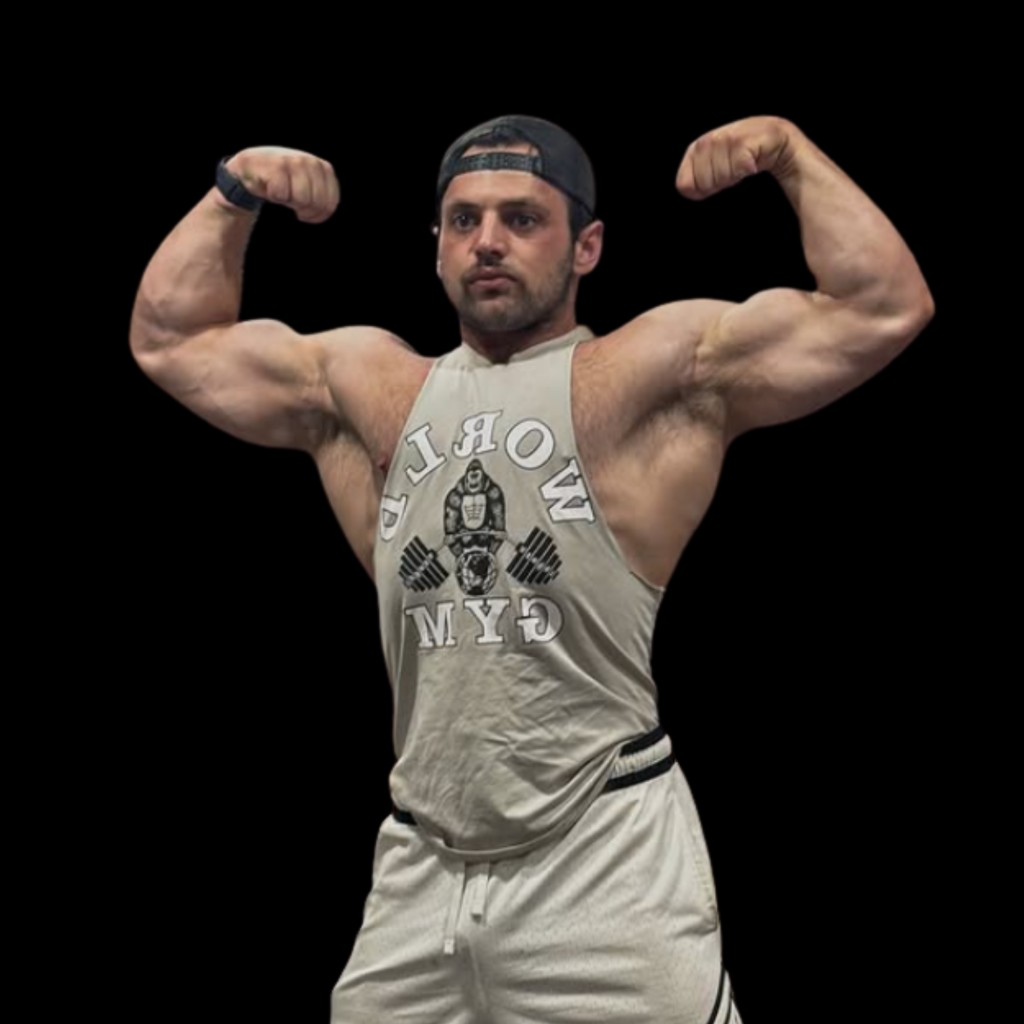
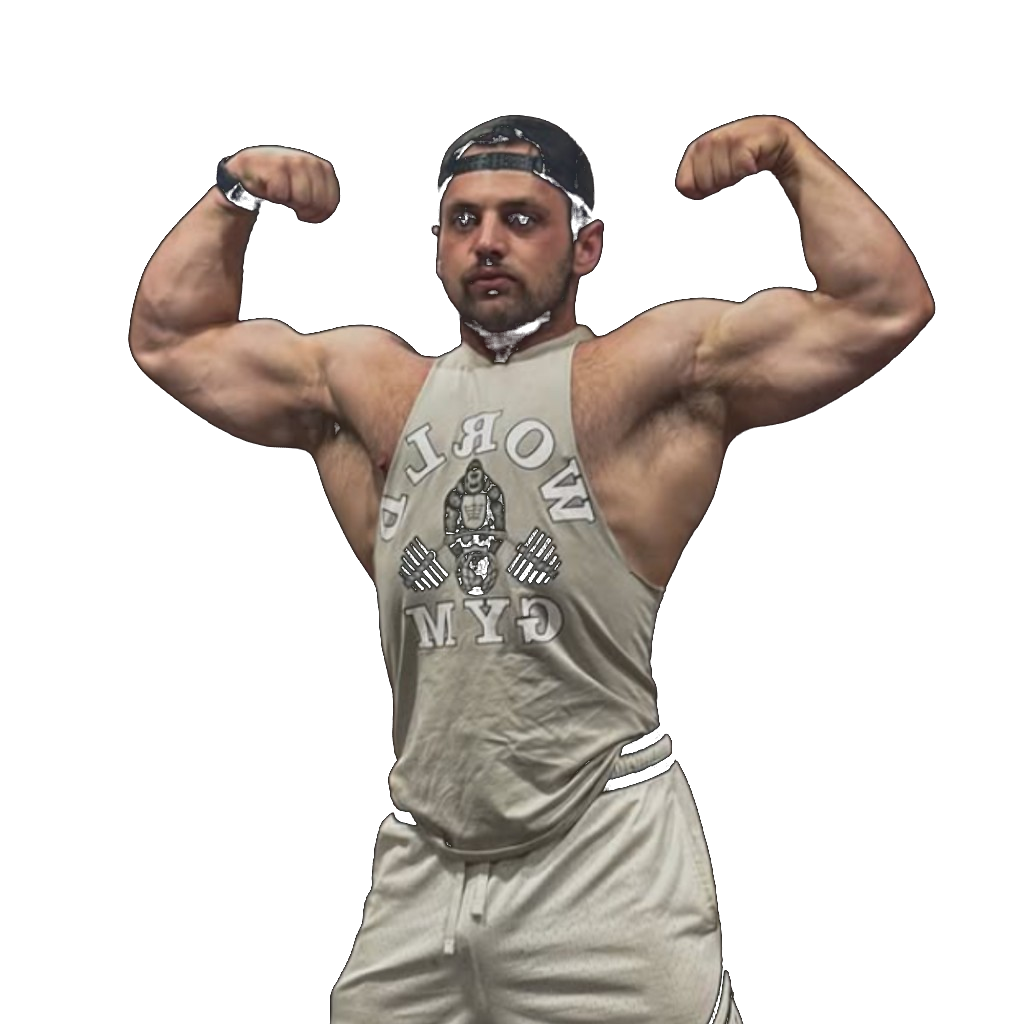
Transparent coaches, split carousels, smaller dumbbell, duo background.

diff --git a/components/sections/SelectedPhotoRail.tsx b/components/sections/SelectedPhotoRail.tsx
@@ -1,0 +1,30 @@
+"use client";
+
+import { Reveal } from "@/components/ui/Reveal";
+import { PhotoCarousel } from "@/components/ui/PhotoCarousel";
+import { useAsync } from "@/lib/useAsync";
+import { getPhotoRail } from "@/lib/api/newphase";
+import { DEFAULT_PHOTO_RAIL, mergePhotoRail } from "@/lib/gallery";
+import type { CarouselSlide } from "@/lib/carousel";
+
+/** Top homepage rail — photos chosen in Admin → Settings. */
+export function SelectedPhotoRail() {
+  const { data: rail } = useAsync(getPhotoRail, DEFAULT_PHOTO_RAIL);
+  const slides: CarouselSlide[] = mergePhotoRail(rail).map((s) => ({
+    id: s.id,
+    src: s.src,
+    label: s.label || "",
+  }));
+
+  if (slides.length === 0) return null;
+
+  return (
+    <section className="relative overflow-hidden pb-4 md:pb-8">
+      <Reveal>
+        <PhotoCarousel slides={slides} />
+      </Reveal>
+    </section>
+  );
+}
+
+export default SelectedPhotoRail;

diff --git a/components/sections/CoachesSection.tsx b/components/sections/CoachesSection.tsx
@@ -30,11 +30,11 @@ function CoachCard({
         type="button"
         onClick={onSelect}
         aria-pressed={active}
-        className={`relative w-full overflow-hidden bg-obsidian text-left transition-transform duration-500 ease-out focus:outline-none focus-visible:ring-2 focus-visible:ring-accent ${
+        className={`relative w-full bg-transparent text-left transition-transform duration-500 ease-out focus:outline-none focus-visible:ring-2 focus-visible:ring-accent ${
           active ? "z-10 scale-[1.04] md:scale-[1.06]" : "scale-100"
         }`}
       >
-        <div className="relative aspect-[3/4] w-full overflow-hidden">
+        <div className="relative aspect-[3/4] w-full bg-transparent">
           {src ? (
             <img
               src={src}
@@ -46,19 +46,14 @@ function CoachCard({
               }`}
             />
           ) : (
-            <div className="flex h-full items-center justify-center bg-near-black text-steel">
+            <div className="flex h-full items-center justify-center text-steel">
               Photo coming soon
             </div>
           )}
-          <div
-            className={`pointer-events-none absolute inset-x-0 bottom-0 h-1/3 bg-gradient-to-t from-obsidian to-transparent transition-opacity duration-500 ${
-              active ? "opacity-80" : "opacity-40"
-            }`}
-          />
         </div>
       </button>
 
-      <div className="mt-5">
+      <div className="mt-3 md:mt-4">
         <h3 className="font-display text-2xl tracking-wide text-off-white md:text-3xl">
           {coach.name.toUpperCase()}
         </h3>
@@ -68,7 +63,7 @@ function CoachCard({
       </div>
 
       <div
-        className={`mt-4 overflow-hidden transition-all duration-500 ${
+        className={`mt-3 overflow-hidden transition-all duration-500 ${
           active ? "max-h-24 opacity-100" : "max-h-0 opacity-0"
         }`}
       >
@@ -91,10 +86,10 @@ export function CoachesSection() {
   if (coaches.length === 0) return null;
 
   return (
-    <section className="section-pad relative overflow-hidden bg-obsidian">
+    <section className="section-pad relative overflow-visible !pb-8 md:!pb-12">
       <div className="container-np">
         <Reveal>
-          <p className="eyebrow mb-4 flex items-center gap-3">
+          <p className="eyebrow mb-3 flex items-center gap-3 md:mb-4">
             <span className="h-px w-10 bg-accent" aria-hidden />
             The Coaches
           </p>
@@ -104,9 +99,9 @@ export function CoachesSection() {
         </Reveal>
 
         <div
-          className={`mt-10 grid gap-8 md:mt-14 md:gap-6 ${
+          className={`mt-5 grid gap-6 md:mt-7 md:gap-6 ${
             coaches.length === 1
-              ? "md:grid-cols-1 md:max-w-md"
+              ? "md:max-w-md md:grid-cols-1"
               : coaches.length === 2
                 ? "md:grid-cols-2"
                 : "md:grid-cols-3"

diff --git a/components/3d/ScrollDumbbell.tsx b/components/3d/ScrollDumbbell.tsx
@@ -5,6 +5,7 @@ import { useEffect, useRef, useState, useCallback } from "react";
 import type { SceneHandle } from "./DumbbellScene";
 import { ThreeErrorBoundary } from "./ThreeErrorBoundary";
 import { LogoMark } from "@/components/brand/LogoMark";
+import { assetUrl } from "@/lib/base-path";
 import { useReducedMotion } from "@/lib/useReducedMotion";
 
 const DumbbellScene = dynamic(
@@ -123,7 +124,7 @@ export function ScrollDumbbell() {
             },
           });
 
-          tl.to(g.scale, { x: 1.55, y: 1.55, z: 1.55, ease: "none" }, 0).to(
+          tl.to(g.scale, { x: 1.25, y: 1.25, z: 1.25, ease: "none" }, 0).to(
             g.position,
             {
               x: isMobile ? 0 : 0.9,
@@ -134,20 +135,20 @@ export function ScrollDumbbell() {
             0,
           );
 
-          tl.to(g.scale, { x: 2.6, y: 2.6, z: 2.6, ease: "none" }, 0.4).to(
+          tl.to(g.scale, { x: 1.7, y: 1.7, z: 1.7, ease: "none" }, 0.4).to(
             g.position,
             {
               x: isMobile ? 0 : 0.35,
               y: 0.2,
-              z: 2.4,
+              z: 1.4,
               ease: "none",
             },
             0.4,
           );
 
-          tl.to(g.scale, { x: 6, y: 6, z: 6, ease: "power1.in" }, 0.7).to(
+          tl.to(g.scale, { x: 2.4, y: 2.4, z: 2.4, ease: "power1.in" }, 0.7).to(
             g.position,
-            { x: 0, y: 0.25, z: 9, ease: "power2.in" },
+            { x: 0, y: 0.25, z: 3.2, ease: "power2.in" },
             0.7,
           );
 
@@ -188,11 +189,16 @@ export function ScrollDumbbell() {
 
       <div
         ref={logoRef}
-        className="absolute inset-0 flex items-center justify-center opacity-[0.1] md:justify-end md:pr-[8%] lg:pr-[11%]"
+        className="absolute inset-0 flex items-center justify-center gap-4 opacity-[0.1] md:justify-end md:gap-8 md:pr-[6%] lg:pr-[8%]"
       >
+        <img
+          src={assetUrl("/brand/bg-duo.png")}
+          alt=""
+          className="h-[min(38vh,180px)] w-auto max-w-[42vw] object-contain opacity-90 md:h-[min(52vh,380px)] md:max-w-[28vw]"
+        />
         <LogoMark
           glow="hero"
-          boxClassName="h-[min(42vh,200px)] w-[min(62vw,200px)] md:h-[min(58vh,420px)] md:w-[min(42vw,420px)]"
+          boxClassName="h-[min(42vh,200px)] w-[min(48vw,200px)] md:h-[min(58vh,420px)] md:w-[min(36vw,420px)]"
         />
       </div>
 

diff --git a/components/sections/Experience.tsx b/components/sections/Experience.tsx
@@ -2,21 +2,9 @@
 
 import { SectionHeading } from "@/components/ui/SectionHeading";
 import { Reveal } from "@/components/ui/Reveal";
-import { PhotoCarousel } from "@/components/ui/PhotoCarousel";
 import { EXPERIENCE_GRID } from "@/lib/fallbacks";
-import { useAsync } from "@/lib/useAsync";
-import { getPhotoRail } from "@/lib/api/newphase";
-import { DEFAULT_PHOTO_RAIL, mergePhotoRail } from "@/lib/gallery";
-import type { CarouselSlide } from "@/lib/carousel";
 
 export function Experience() {
-  const { data: rail } = useAsync(getPhotoRail, DEFAULT_PHOTO_RAIL);
-  const slides: CarouselSlide[] = mergePhotoRail(rail).map((s) => ({
-    id: s.id,
-    src: s.src,
-    label: s.label || "",
-  }));
-
   return (
     <section className="section-pad relative">
       <div className="container-np">
@@ -52,14 +40,6 @@ export function Experience() {
           ))}
         </div>
       </div>
-
-      {slides.length > 0 && (
-        <Reveal>
-          <div className="mt-8 md:mt-14">
-            <PhotoCarousel slides={slides} />
-          </div>
-        </Reveal>
-      )}
     </section>
   );
 }

diff --git a/components/sections/ClientsPreview.tsx b/components/sections/ClientsPreview.tsx
@@ -4,24 +4,24 @@ import Link from "next/link";
 import { SectionHeading } from "@/components/ui/SectionHeading";
 import { Reveal } from "@/components/ui/Reveal";
 import { PhotoCarousel } from "@/components/ui/PhotoCarousel";
-import { useAsync } from "@/lib/useAsync";
-import { getClients } from "@/lib/api/newphase";
-import { buildTransformationSlides } from "@/lib/carousel";
-import type { Client } from "@/types/newphase";
+import { STOCK_TRANSFORMATION_PHOTOS } from "@/lib/carousel";
 
-/** Original mixed transformation rail (clients + stock). */
+/** Bottom homepage rail — built-in stock training imagery. */
 export function ClientsPreview() {
-  const { data: clients } = useAsync<Client[]>(() => getClients(), []);
-  const slides = buildTransformationSlides(clients);
+  const slides = STOCK_TRANSFORMATION_PHOTOS.map((s) => ({
+    id: s.id,
+    src: s.src,
+    label: s.label,
+    result: s.result,
+  }));
 
   return (
-    <section className="section-pad relative overflow-hidden">
+    <section className="section-pad relative overflow-hidden !pt-0">
       <div className="container-np">
         <div className="flex flex-wrap items-end justify-between gap-6">
           <SectionHeading
             eyebrow="Real Transformations"
             title="Results that speak for themselves"
-            intro="Swipe the rail — client photos mix with training imagery."
           />
           <Link
             href="/clients/"

diff --git a/app/(site)/page.tsx b/app/(site)/page.tsx
@@ -1,9 +1,10 @@
 import { Hero } from "@/components/sections/Hero";
 import { NewPhaseWay } from "@/components/sections/NewPhaseWay";
 import { Personalisation } from "@/components/sections/Personalisation";
-import { ClientsPreview } from "@/components/sections/ClientsPreview";
-import { Experience } from "@/components/sections/Experience";
+import { SelectedPhotoRail } from "@/components/sections/SelectedPhotoRail";
 import { CoachesSection } from "@/components/sections/CoachesSection";
+import { Experience } from "@/components/sections/Experience";
+import { ClientsPreview } from "@/components/sections/ClientsPreview";
 import { PackagesPreview } from "@/components/sections/PackagesPreview";
 import { TestimonialsPreview } from "@/components/sections/TestimonialsPreview";
 import { FinalCta } from "@/components/sections/FinalCta";
@@ -16,9 +17,10 @@ export default function HomePage() {
       <Hero />
       <NewPhaseWay />
       <Personalisation />
-      <ClientsPreview />
-      <Experience />
+      <SelectedPhotoRail />
       <CoachesSection />
+      <Experience />
+      <ClientsPreview />
       <PackagesPreview />
       <TestimonialsPreview />
       <FinalCta />

diff --git a/app/admin/settings/page.tsx b/app/admin/settings/page.tsx
@@ -178,11 +178,11 @@ export default function AdminSettingsPage() {
           <div className="flex flex-wrap items-center justify-between gap-3">
             <div>
               <h2 className="font-display text-xl tracking-wide text-off-white">
-                Experience photo rail
+                Top homepage carousel
               </h2>
               <p className="mt-1 text-sm text-steel">
-                Scrolls under the &ldquo;Everything you need in one system&rdquo;
-                cards on the homepage.
+                Selected photos for the upper homepage rail (above The Coaches).
+                The lower rail uses built-in stock imagery.
               </p>
             </div>
             <AdminButton variant="ghost" onClick={addSlide}>

diff --git a/app/(site)/trainers/page.tsx b/app/(site)/trainers/page.tsx
@@ -42,11 +42,11 @@ export default function TrainersPage() {
                     onClick={() =>
                       setActiveId((id) => (id === coach.id ? null : coach.id))
                     }
-                    className={`relative w-full overflow-hidden bg-obsidian text-left transition-transform duration-500 ${
+                    className={`relative w-full bg-transparent text-left transition-transform duration-500 ${
                       active ? "scale-[1.04]" : ""
                     }`}
                   >
-                    <div className="relative aspect-[3/4]">
+                    <div className="relative aspect-[3/4] bg-transparent">
                       {src ? (
                         <img
                           src={src}

diff --git a/app/(site)/trainers/profile/page.tsx b/app/(site)/trainers/profile/page.tsx
@@ -75,7 +75,7 @@ function ProfileContent() {
       <div className="container-np grid items-center gap-8 lg:grid-cols-[minmax(0,42%)_minmax(0,1fr)] lg:gap-14">
         {/* Image — left */}
         <div className="relative order-2 mx-auto w-full max-w-md lg:order-1 lg:mx-0 lg:max-w-none">
-          <div className="relative aspect-[3/4] overflow-hidden bg-obsidian">
+          <div className="relative aspect-[3/4] overflow-hidden bg-transparent">
             {src ? (
               <img
                 src={src}

diff --git a/scripts/key-coach-bg.py b/scripts/key-coach-bg.py
@@ -1,0 +1,27 @@
+from PIL import Image
+from pathlib import Path
+
+
+def key_black(src: Path, dst: Path, threshold=28, softness=18):
+    im = Image.open(src).convert("RGBA")
+    pixels = im.load()
+    w, h = im.size
+    for y in range(h):
+        for x in range(w):
+            r, g, b, a = pixels[x, y]
+            mx = max(r, g, b)
+            if mx <= threshold:
+                pixels[x, y] = (r, g, b, 0)
+            elif mx < threshold + softness:
+                t = (mx - threshold) / softness
+                pixels[x, y] = (r, g, b, int(a * t))
+    im.save(dst, "PNG")
+    print(f"wrote {dst} ({dst.stat().st_size} bytes)")
+
+
+base = Path(
+    r"C:\Users\Joshu\Desktop\Tame Dynamics\Client\Newphase Coaching\public\brand\coaches"
+)
+for name in ("siegwalt.png", "hadley.png"):
+    p = base / name
+    key_black(p, p)